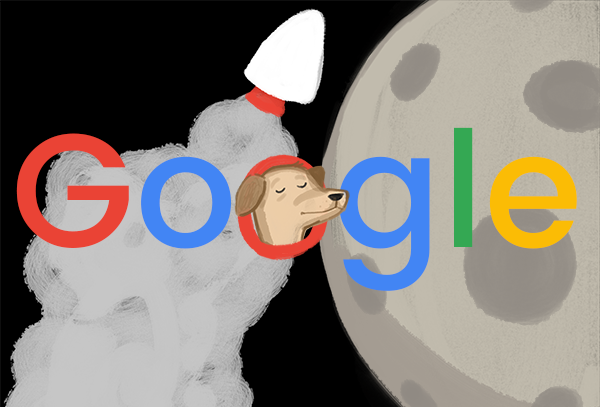
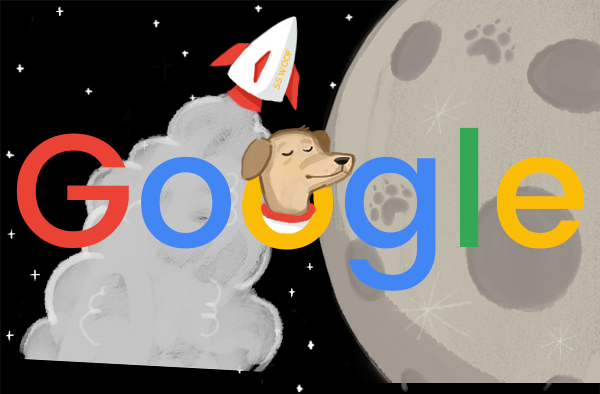
lots of little changes, how do you animate?????

diff --git a/css/styles.css b/css/styles.css
@@ -1,71 +1,3 @@
-/*! normalize.css v6.0.0 | MIT License | github.com/necolas/normalize.css */
-html{
-    line-height:1.15;-ms-text-size-adjust:100%;-webkit-text-size-adjust:100%}
-article,aside,footer,header,nav,section{
-    display:block}h1{font-size:2em;margin:0.67em 0}
-figcaption,figure,main{
-    display:block}
-figure{
-    margin:1em 40px}hr{box-sizing:content-box;height:0;overflow:visible}pre{font-family:monospace, monospace;font-size:1em}a{background-color:transparent;-webkit-text-decoration-skip:objects}abbr[title]{border-bottom:none;text-decoration:underline;text-decoration:underline dotted}b,strong{font-weight:inherit}b,strong{font-weight:bolder}
-code,kbd,samp{
-    font-family:monospace, monospace;font-size:1em}dfn{font-style:italic}mark{background-color:#ff0;color:#000}small{font-size:80%}sub,sup{font-size:75%;line-height:0;position:relative;vertical-align:baseline}sub{bottom:-0.25em}sup{top:-0.5em}audio,video{display:inline-block}audio:not([controls]){display:none;height:0}img{border-style:none}svg:not(:root){overflow:hidden}
-button,input,optgroup,select,textarea{
-    margin:0}
-button,input{
-    overflow:visible}
-button,select{
-    text-transform:none}
-button,html [type="button"],[type="reset"],[type="submit"]{-webkit-appearance:button}button::-moz-focus-inner,[type="button"]::-moz-focus-inner,[type="reset"]::-moz-focus-inner,[type="submit"]::-moz-focus-inner{border-style:none;padding:0}button:-moz-focusring,[type="button"]:-moz-focusring,[type="reset"]:-moz-focusring,[type="submit"]:-moz-focusring{outline:1px dotted ButtonText}
-legend{
-    box-sizing:border-box;color:inherit;display:table;max-width:100%;padding:0;white-space:normal}progress{display:inline-block;vertical-align:baseline}textarea{overflow:auto}[type="checkbox"],[type="radio"]{box-sizing:border-box;padding:0}[type="number"]::-webkit-inner-spin-button,[type="number"]::-webkit-outer-spin-button{height:auto}[type="search"]{-webkit-appearance:textfield;outline-offset:-2px}[type="search"]::-webkit-search-cancel-button,[type="search"]::-webkit-search-decoration{-webkit-appearance:none}::-webkit-file-upload-button{-webkit-appearance:button;font:inherit}details,menu{display:block}
-summary{display:list-item}canvas{display:inline-block}template{display:none}[hidden]{display:none}
-
-#stage{
-    background:gray;
-    height:300px;
-    width:600px}
-
[1 lines of base64/hex data omitted]
-div{margin:3em auto;text-align:center;width:50%}
-
-button{
-    display:inline-block;
-    background-color:#f2f2f2;
-    border:1px solid #f2f2f2;
-    border-radius:2px;
-    color:#757575;
-    cursor:default;
-    font-family:arial, sans-serif;
-    font-size:1em;
-    font-weight:bold;
-    padding:.5em 1em;
-    text-align:center}
-
-body {
-    background:black;
-    background-image:url("img/url.jpg")}
-#stage{
-    position:relative;
-    overflow:hidden}
-
-#stage svg{
-    position:absolute;
-    bottom:-10;
-    right:-100}
-
-#stage h1 {
-    color: white;
-    position:absolute;
-    top:40%;
-    left:30%;
-    font-family:'Poppins',sans-serif;
-    font-size: 6em}
-
-#stage svg {
-    opacity:0;transition:opacity 2.5s}
-
-#stage:hover
-h1,#stage:hover svg{
-    opacity:1}
[1 lines of base64/hex data omitted]
 
 /*# sourceMappingURL=styles.css.map */

diff --git a/index.html b/index.html
@@ -5,22 +5,21 @@
     <meta name="viewport" content="width=device-width, initial-scale=1">
     <title>Google Doodle</title>
     
-
-<link rel="apple-touch-icon" sizes="120x120" href="/apple-touch-icon.png">
-<link rel="icon" type="image/png" sizes="32x32" href="/favicon-32x32.png">
-<link rel="icon" type="image/png" sizes="16x16" href="/favicon-16x16.png">
-<link rel="manifest" href="/manifest.json">
-<link rel="mask-icon" href="/safari-pinned-tab.svg" color="#5bbad5">
-<meta name="theme-color" content="#ffffff">  
+    <link rel="apple-touch-icon" sizes="120x120" href="/apple-touch-icon.png">
+    <link rel="icon" type="image/png" sizes="32x32" href="/favicon-32x32.png">
+    <link rel="icon" type="image/png" sizes="16x16" href="/favicon-16x16.png">
+    <link rel="manifest" href="/manifest.json">
+    <link rel="mask-icon" href="/safari-pinned-tab.svg" color="#5bbad5">
+    <meta name="theme-color" content="#ffffff">  
 
     <link rel="stylesheet" href="css/styles.scss">
     <link rel="stylesheet" href="css/styles.css">
     <link rel="stylesheet" href="css/google-homepage.css">
     <link rel="stylesheet" href="css/normalize.css">
-    
-<style>
-@import url('https://fonts.googleapis.com/css?family=Poppins');
-</style>
+
+    <style>
+    @import url('https://fonts.googleapis.com/css?family=Poppins');
+    </style>
     
 </head>
 <body>
@@ -29,13 +28,29 @@
         
     <!-- Your Awesome Design -->
         <!-- <h1>Google</h1> -->
-        <img src="img/doodlesmaller.png">
+        <img id="doodle" src="img/doodlesmaller.png">
     
     <!--  SVG as a file  -->
     <!--<img src="img/Google_2015_logo.svg">-->
     
     <!-- SVG as Code-->
 
+<!-- star attempt  -->
+<svg version="1.1" id="Layer_1" xmlns="http://www.w3.org/2000/svg" xmlns:xlink="http://www.w3.org/1999/xlink" x="0px" y="0px"
+	 viewBox="0 0 600 300" style="enable-background:new 0 0 600 300;" xml:space="preserve">
+<style type="text/css">
+	.st0{display:none;stroke:#FFFFFF;stroke-miterlimit:10;}
+	.st1{fill:#FFFFFF;}
+</style>
+<rect x="-7" y="-4.1" class="st0" width="613" height="308.2"/>
+<path class="st1" d="M9.6,10.1c0,0-0.5,2.7-2.6,4.9c0,0,2.4,2.4,3.1,5.5c0,0,0.1-2.7,2.4-5.5C12.4,15,10.7,13.7,9.6,10.1z"/>
+<path class="st1" d="M108.1,64.7c0,0-0.5,2.7-2.6,4.9c0,0,2.4,2.4,3.1,5.5c0,0,0.1-2.7,2.4-5.5C110.9,69.5,109.2,68.3,108.1,64.7z"
+	/>
+<path class="st1" d="M366,26.9c0,0-0.5,2.7-2.6,4.9c0,0,2.4,2.4,3.1,5.5c0,0,0.1-2.7,2.4-5.5C368.8,31.8,367.1,30.6,366,26.9z"/>
+</svg>
+
+
+<!-- google logo -->
  <svg version="1.1" id="Layer_1" xmlns="http://www.w3.org/2000/svg" xmlns:xlink="http://www.w3.org/1999/xlink" x="0px" y="0px"
 	 viewBox="0 0 272 92" style="enable-background:new 0 0 272 92;" xml:space="preserve">
 <style type="text/css">
@@ -61,7 +76,6 @@
 	s10.8,25,24.7,25c9,0,14.1-3.6,17.4-6.9c2.7-2.7,4.4-6.5,5.1-11.7L35.3,41.4z"/>
 </svg>
 
-    
     </div><!-- end #stage -->
     
     <input type="text" />

diff --git a/css/styles.scss b/css/styles.scss
@@ -13,17 +13,18 @@ body {
     position: relative;
     overflow: hidden;}
 
-//Child
-#stage svg {
-    position: absolute;
-    bottom: -10;
-    right: -100;}
-
 // Child
 #stage h1 {
+    display: none;
     position: absolute;
-    top: 40%;
-    left: 30%;}
+    bottom: 100;
+    right: -50;}
+
+// Child
+svg {
+    position: relative;
+    top: 20%;
+    left: 20%;}
 
 // Animation go here!!
 #stage h1,
@@ -31,7 +32,7 @@ body {
     opacity: 0;
     transition: opacity 1.5s;}
 
-//Last frame
+// Last frame
 #stage:hover h1,
 #stage:hover svg{
     opacity: 1;}
